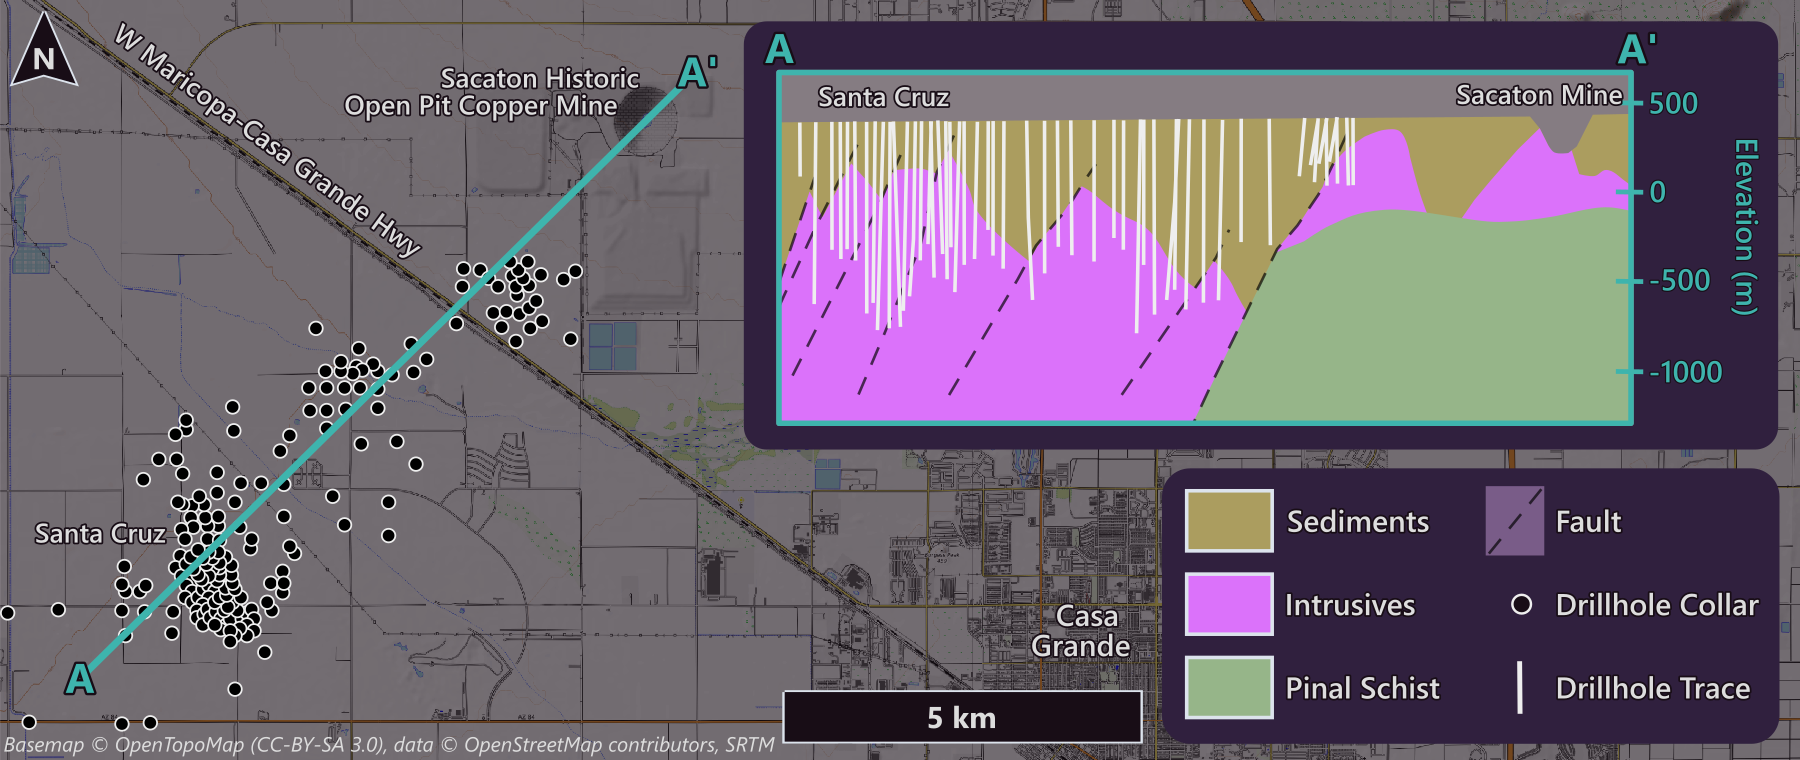
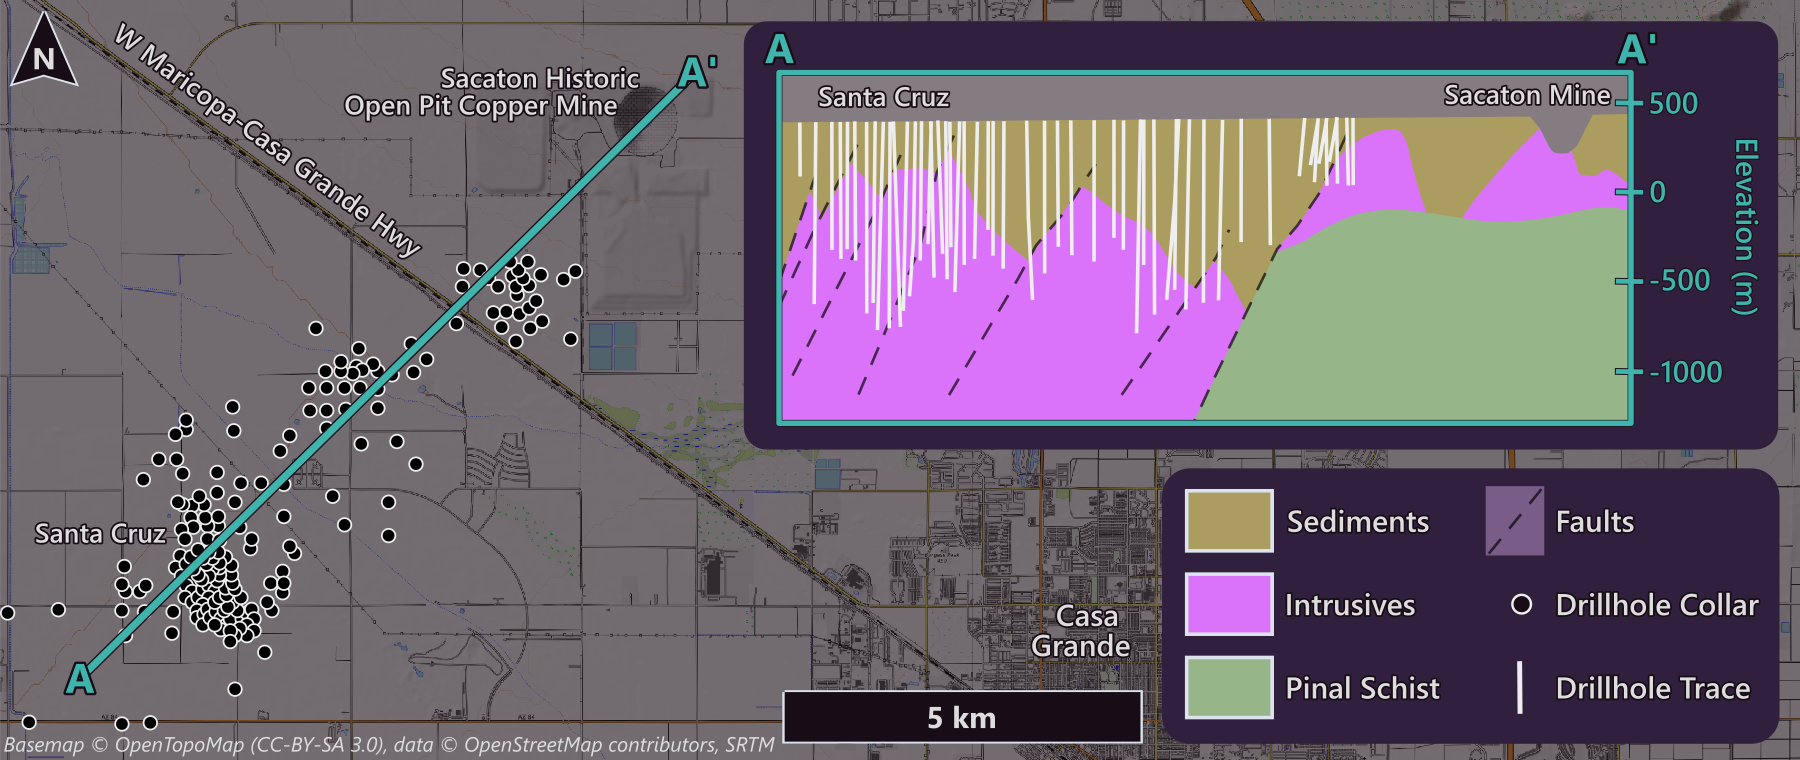
border on CS line; formatting for hexRGB html swatch

Changed region(s): [[0.7778, 0.0908, 0.9022, 0.1513], [0.28, 0.3026, 0.3111, 0.3329]]

diff --git a/docs/projects/leapfrog-postgresql.html b/docs/projects/leapfrog-postgresql.html
@@ -715,9 +715,7 @@ Table&nbsp;2: Rows from <code>model_intervals</code> – every interpretation re
 <p>Two additional features that weren’t asked for, but I implemented because I thought they would be useful. Both started as questions – could the database make the model easier to interpret, not just easier to maintain.</p>
 <p><strong>Colour blend</strong></p>
 <p>Core is logged with named colours, not hex – “Dark Brown”, “Light Grey”, and so on, up to six per interval across <code>major</code>, <code>minor</code>, and <code>streak</code>. Leapfrog can’t render a named colour, so by default the logged colour never makes it into 3D, and a geologist scanning the model loses one of the cues they’d use at the core tray.</p>
-<p>So the database delivered a solution. A lookup table, <code>colour_lookup</code>, paired every colour name that appears in the lithology log with a suitable hex value. The blend function then took the up-to-six colours on an interval and combined them into a single hexRGB (eg, <span style="display:inline-block;
-             width:0.9em; height:0.8em; margin-right:0.1em; border:1px solid #888;
-             background-color:#3EB4AD;"></span><code>#3EB4AD</code> – oh hey <a href="https://web.archive.org/web/20260310163606/https://ivanhoeelectric.com/site/assets/files/10945/scc_084_746-749m-1-1_1.800x0.jpg">chrysocolla!</a>), weighted so the <code>major</code> colours dominate and the <code>streak</code> only tints. The interval then renders in 3D as close as a single value can get – near-identical to the average colour visible in the core photos.</p>
+<p>So the database delivered a solution. A lookup table, <code>colour_lookup</code>, paired every colour name that appears in the lithology log with a suitable hex value. The blend function then took the up-to-six colours on an interval and combined them into a single hexRGB (eg, <span style="display:inline-block; width:0.9em; height:0.8em; border:1px solid #888;background-color:#3EB4AD;"></span><code>#3EB4AD</code> – oh hey <a href="https://web.archive.org/web/20260310163606/https://ivanhoeelectric.com/site/assets/files/10945/scc_084_746-749m-1-1_1.800x0.jpg">chrysocolla!</a>), weighted so the <code>major</code> colours dominate and the <code>streak</code> only tints. The interval then renders in 3D as close as a single value can get – near-identical to the average colour visible in the core photos.</p>
 <div id="fig-rgb-intervals" class="fig-capped quarto-float quarto-figure quarto-figure-center anchored" alt="Schematic 3D plot of drillhole intervals displaying logged rock colour">
 <figure class="quarto-float quarto-float-fig figure">
 <div aria-describedby="fig-rgb-intervals-caption-0ceaefa1-69ba-4598-a22c-09a6ac19f8ca">

diff --git a/docs/projects.html b/docs/projects.html
@@ -277,7 +277,7 @@ window.Quarto = {
 
 <div id="listing-primary" class="quarto-listing quarto-listing-container-grid">
 <div class="list grid quarto-listing-cols-3">
-<div class="g-col-1" data-index="0" data-listing-date-sort="1782475200000" data-listing-file-modified-sort="1784071606602" data-listing-date-modified-sort="NaN" data-listing-reading-time-sort="21" data-listing-word-count-sort="4090">
+<div class="g-col-1" data-index="0" data-listing-date-sort="1782475200000" data-listing-file-modified-sort="1784082655562" data-listing-date-modified-sort="NaN" data-listing-reading-time-sort="21" data-listing-word-count-sort="4064">
 <a href="./projects/leapfrog-postgresql.html" class="quarto-grid-link">
 <div class="quarto-grid-item card h-100 card-left">
 <p class="card-img-top">